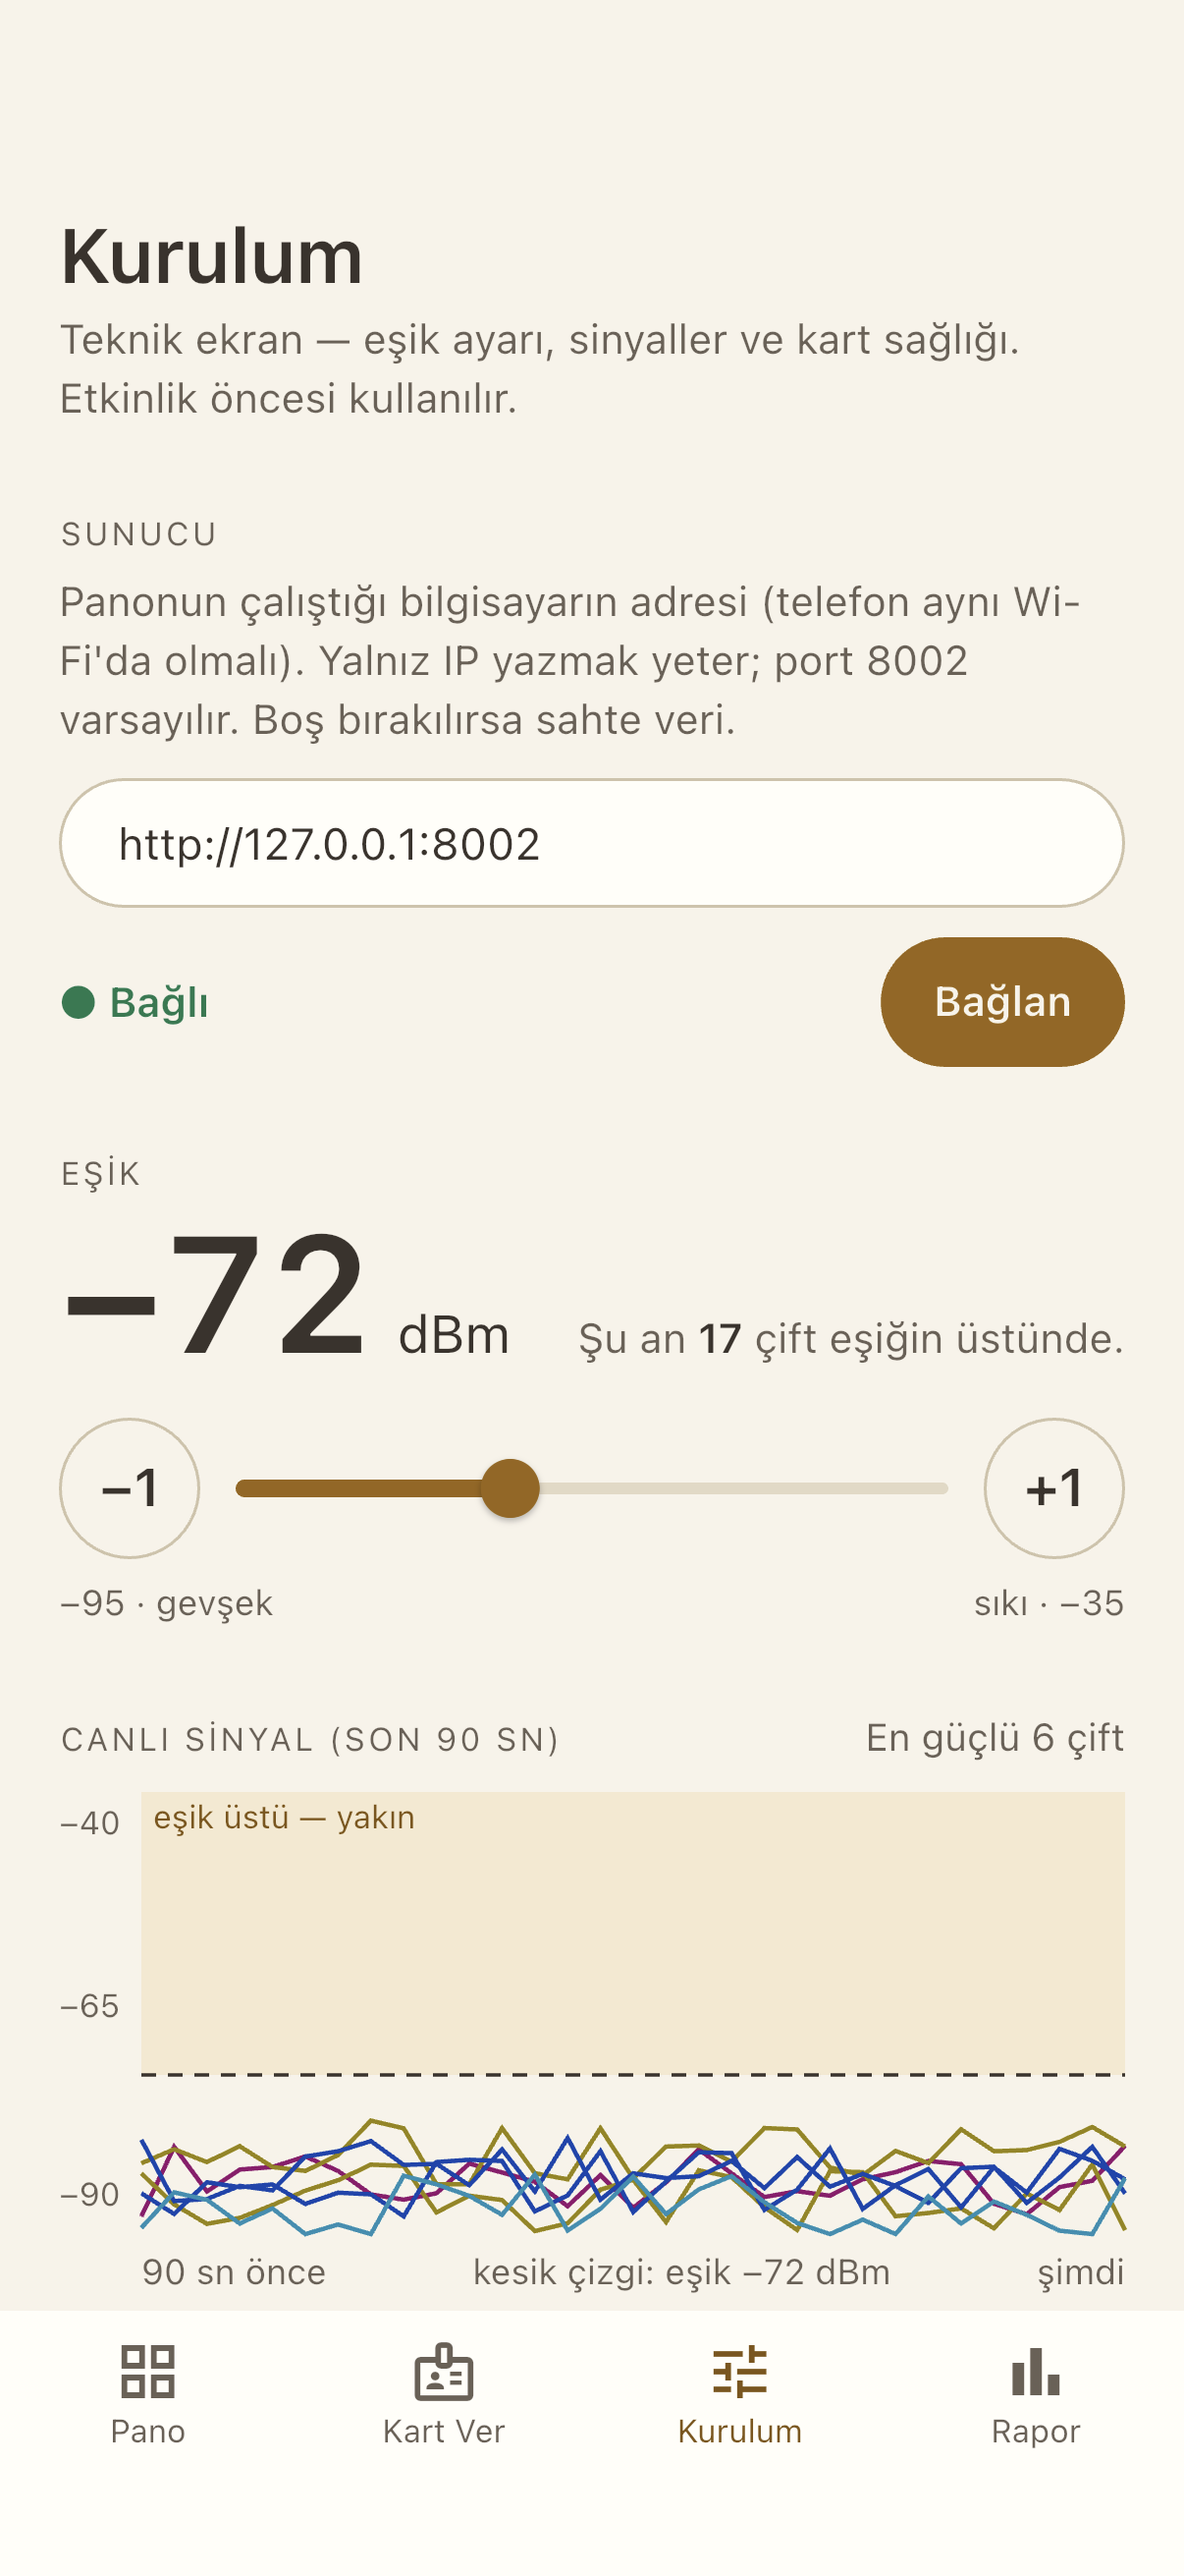
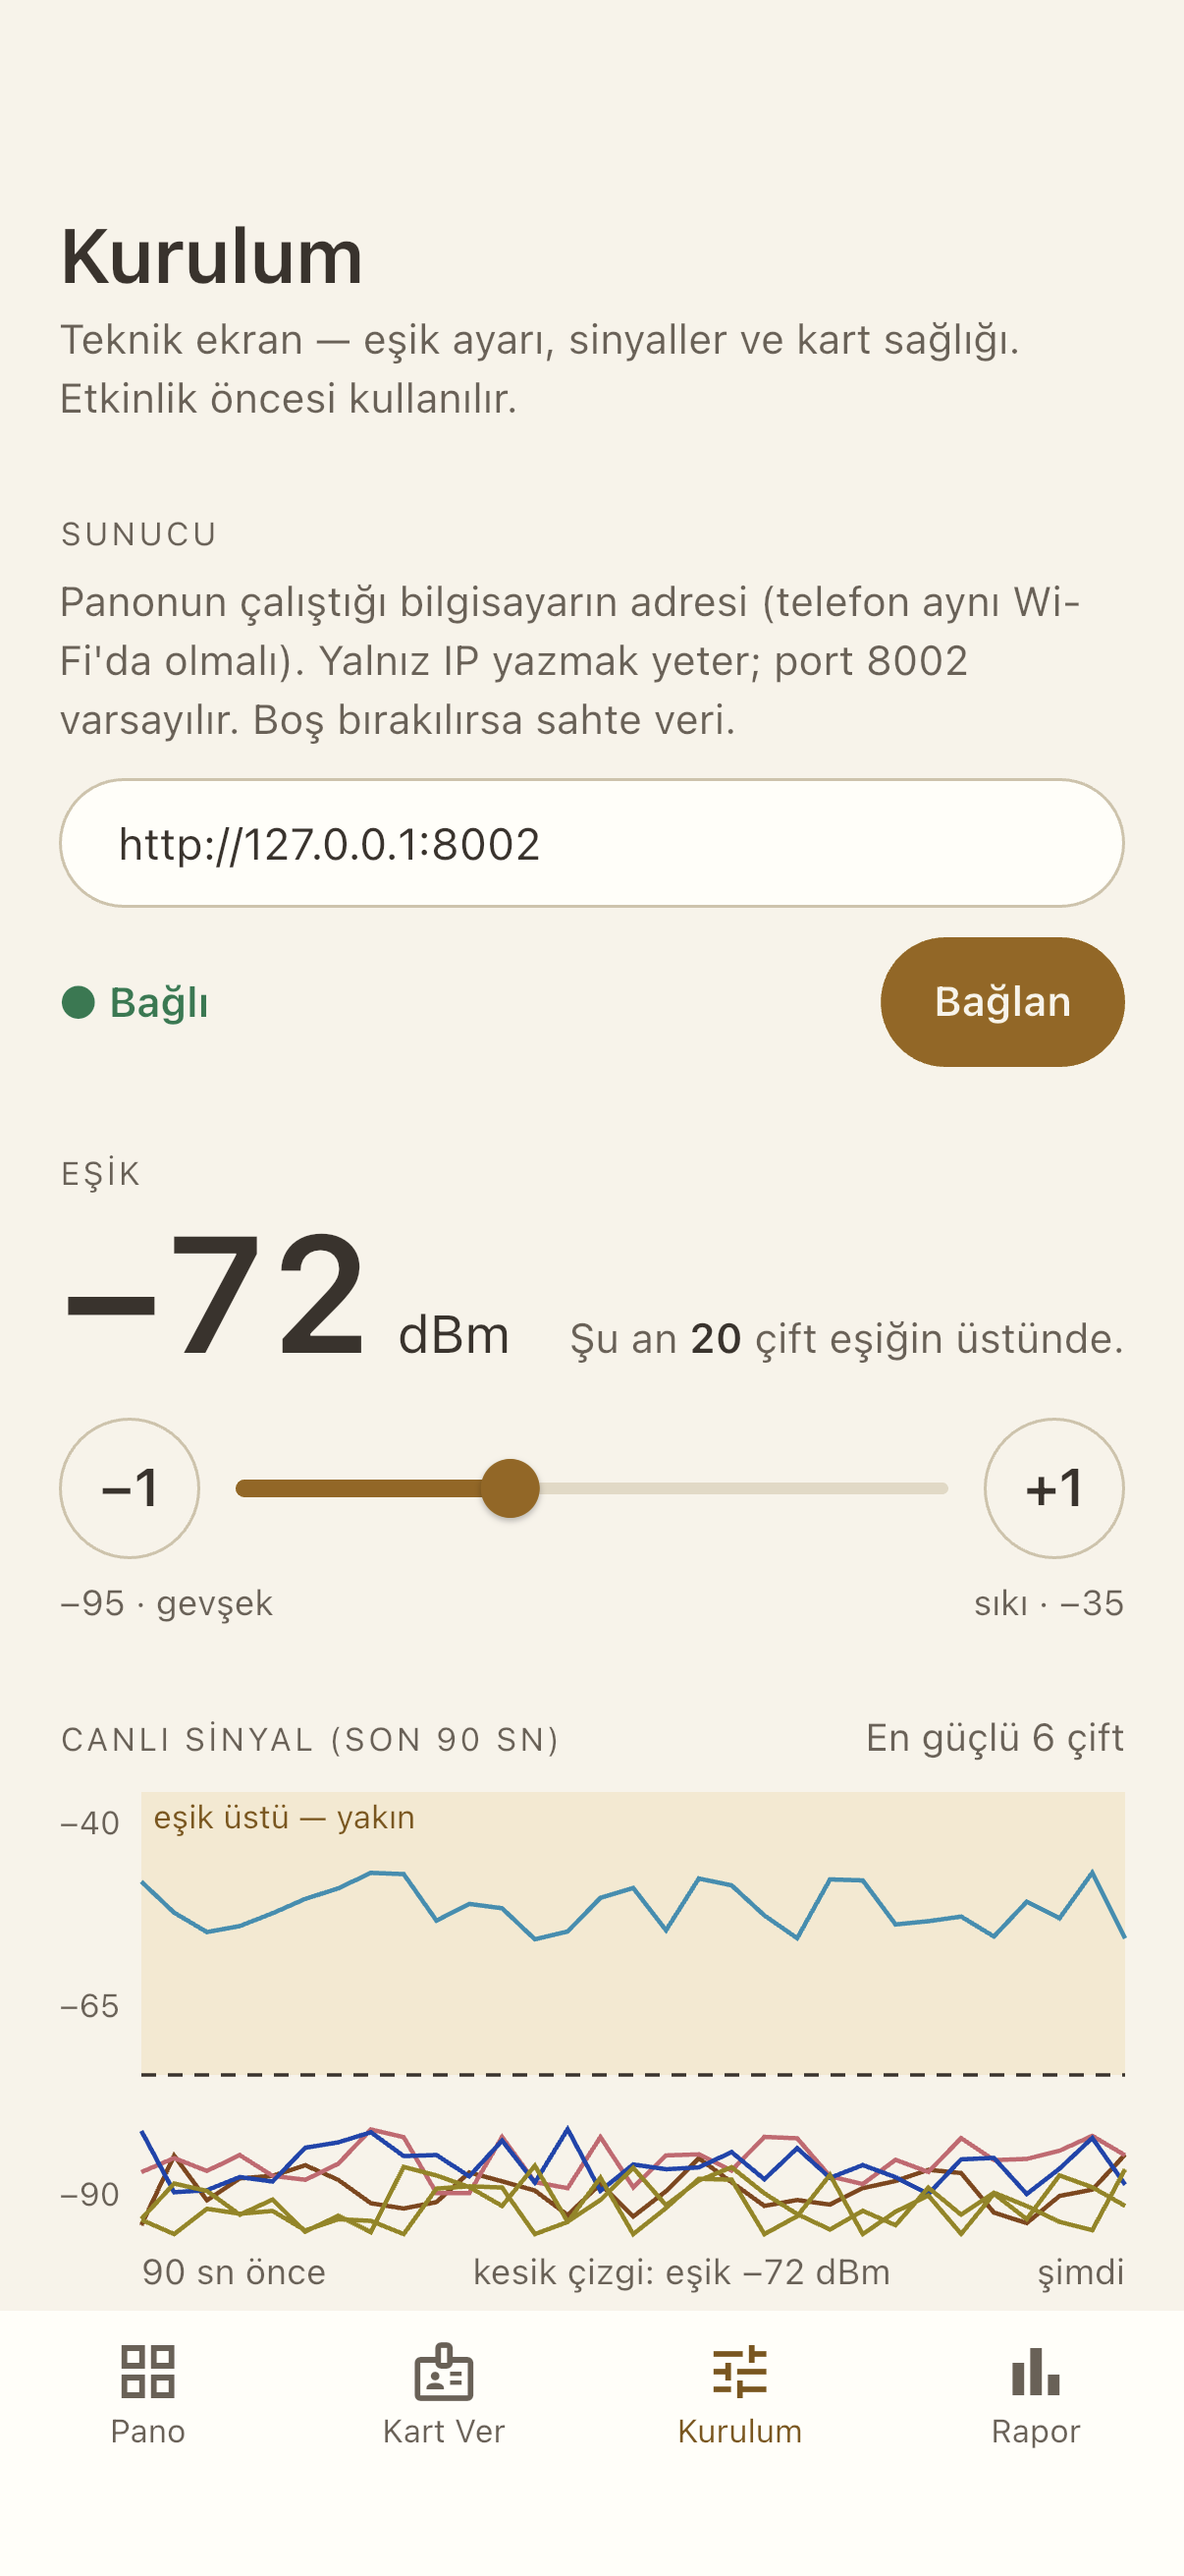
M2: listede "Boşta · N dk'dır", kişi detayından Pil kaldırıldı; salon ekran görüntüsü (gerçek sunucu)

Changed region(s): [[0.1227, 0.8032, 0.9511, 0.865], [0.4909, 0.4943, 0.6136, 0.5252]]

diff --git a/test/mantik/kisi_gorunum_test.dart b/test/mantik/kisi_gorunum_test.dart
@@ -52,6 +52,10 @@ void main() {
     expect(durumCumlesi(kaan, 0, bul), 'Görünmüyor · 3 dk önce duyuldu');
     expect(durumTonu(kaan), DurumTonu.uyari);
     expect(durumCumlesi(zeynep, 5, bul), 'Boşta');
+    // Sunucunun idleSinceS'i (web ile aynı): 1 dk'dan uzun boştaysa dakikası yazılır.
+    final bosta = Kisi(id: '90', rol: Rol.misafir, renk: KisiRengi.gri, bostaSn: 185);
+    expect(durumCumlesi(bosta, 0, bul), "Boşta · 3 dk'dır");
+    expect(durumCumlesi(Kisi(id: '91', rol: Rol.misafir, renk: KisiRengi.gri, bostaSn: 40), 0, bul), 'Boşta');
     expect(durumTonu(zeynep), DurumTonu.ikincil);
   });
 

diff --git a/test/ekranlar/kisi_detayi_test.dart b/test/ekranlar/kisi_detayi_test.dart
@@ -53,8 +53,7 @@ void main() {
     expect(find.text('az önce'), findsOneWidget);
     expect(find.text('Bugünkü toplam'), findsOneWidget);
     expect(find.text('19 sn'), findsNWidgets(2)); // toplam + eş satırı
-    expect(find.text('Pil'), findsOneWidget);
-    expect(find.text('%92'), findsOneWidget);
+    expect(find.text('Pil'), findsNothing); // Pil kaldırıldı (web kararı 05.10.2026)
     expect(find.text('Kartı değiştir'), findsOneWidget);
     expect(find.text('Kartı iade al'), findsOneWidget);
     expect(find.text('BUGÜN KİMİNLE'), findsOneWidget);

diff --git a/lib/mantik/kisi_gorunum.dart b/lib/mantik/kisi_gorunum.dart
@@ -43,7 +43,9 @@ String durumCumlesi(Kisi k, int tick, Kisi Function(String id) bul) {
   if (k.gorunmuyor) return 'Görünmüyor · 3 dk önce duyuldu';
   final ile = k.ile;
   if (ile != null) return '${gorunenAd(bul(ile))} ile · ${sureYazisi(gecenSn(k, tick))}';
-  return 'Boşta';
+  // Sunucunun idleSinceS'i (web ile aynı): 1 dk'dan uzun boştaysa dakikası yazılır.
+  final dk = k.bostaSn ~/ 60;
+  return dk >= 1 ? "Boşta · $dk dk'dır" : 'Boşta';
 }
 
 /// Satırın sağındaki süre; hiç görüşmemişse "—".

diff --git a/lib/ekranlar/kisi_detayi/kisi_detay_sayfasi.dart b/lib/ekranlar/kisi_detayi/kisi_detay_sayfasi.dart
@@ -203,8 +203,6 @@ class KisiDetaySayfasi extends StatelessWidget {
             stil: Yazi.olcu(15, agirlik: FontWeight.w600, rakam: true),
           ),
         ),
-        const SizedBox(height: 14),
-        satir(EtiketliDeger(etiket: 'Pil', deger: k.pil == null ? '—' : '%${k.pil}'), const SizedBox.shrink()),
       ],
     );
   }
